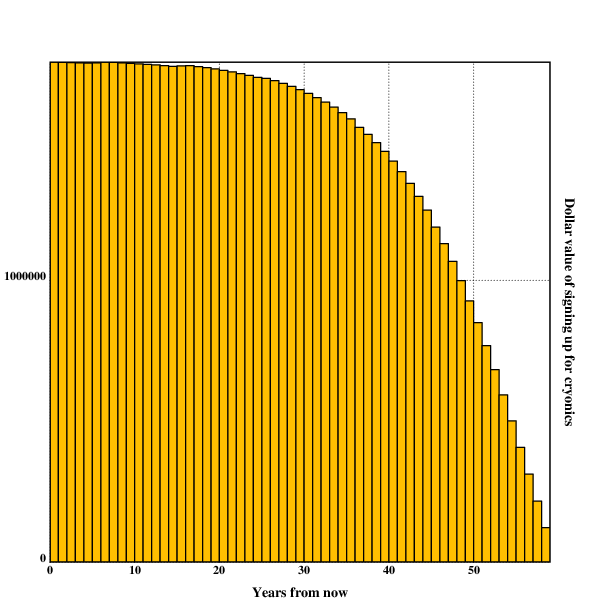
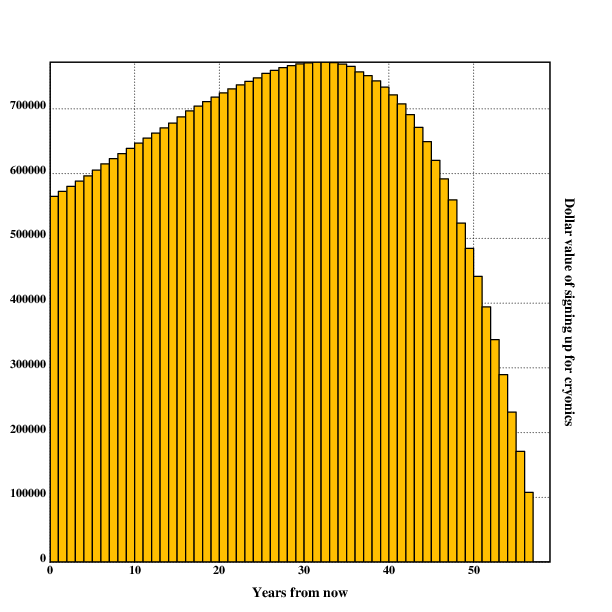
Add.

diff --git a/considerations_on_cryonics.html b/considerations_on_cryonics.html
@@ -41,8 +41,11 @@ worth it, and if yes, should one
 (i.e. postpone signing up for cryonics to a later date)? <a href="https://en.wikipedia.org/wiki/Betteridge's_law_of_headlines">Betteridge's law
 of headlines</a>
 only applies partially here: Yes, it is probably worth it (under plausible
-assumptions \$2.7m for a 20 year old, and more for older people), and no,
-cryocrastination is usually irrational. A cost-benefit analysis written in
+assumptions <a href="#Currently_20_years_old">\$850k for a 20 year old</a>,
+and <a href="#Currently_40_years_old">more for older people</a>), and no,
+cryocrastination is usually irrational (unless one <a href="#Without_Motivation_Drift">doesn't experience
+value drift</a>, in which case cryocrastination
+is rational until age 55). A cost-benefit analysis written in
 <a href="https://en.wikipedia.org/wiki/Lua_(programming_language)">Lua</a>,
 considering
 <a href="https://www.alcor.org/library/neuropreservation-option/">neurocryopreservation</a>
@@ -55,12 +58,6 @@ in the mean, median -\$100k (90% confidence interval: -\$2.16m,
 <a href="#Now_What">immediately</a>.</strong></p>
 </blockquote>
 <h1 id="Cryonics_CostBenefit_Analysis"><a class="hanchor" href="#Cryonics_CostBenefit_Analysis">Cryonics Cost-Benefit Analysis</a></h1>
-<h2 id="Preliminary_Note"><a class="hanchor" href="#Preliminary_Note">Preliminary Note</a></h2>
-<p>I now believe this cost-benefit analysis to be incomplete, mainly because
-it doesn't treat the risk of extinction with as much detail as I would
-like it to. It's still the best one I know of, but proceed with caution.</p>
-<p>I plan on revisiting this analysis.</p>
-<hr/>
 <blockquote>
 <p>If I died, would I be rid of my senses?<br/>
 Or will it retain, trapped within my corpse, in stasis?<br/>
@@ -329,6 +326,7 @@ cryopreservation.</p>
 end
 </code></pre>
 <h3 id="Membership_Fees"><a class="hanchor" href="#Membership_Fees">Membership Fees</a></h3>
+<!--TODO: fees have changed! Update-->
 <p>Membership fees for Alcor are calculated using the age of the member
 and the length of their membership.</p>
 <h4 id="Direct_Fees"><a class="hanchor" href="#Direct_Fees">Direct Fees</a></h4>
@@ -898,6 +896,30 @@ arrives at 2850 years.</p>
 2019</a>
 conservatively estimates a life expectancy of ~1000 years for each
 individual human after LEV.</p>
+<p>The life
+expectancy of cryonics is thus is (just taking the average of these three values)
+<code>$\frac{8938+2850+1000}{3} \approx 4260$</code>.</p>
+<p>To conclude, it seems like resuscitated cryonicists will on average live
+around years, although there is room for debate on this number.</p>
+<pre><code>years_gain=4260
+</code></pre>
+<hr/>
+<p>That number should be qualified further in an <a href="https://en.wikipedia.org/wiki/The_Age_of_Em">"Age of
+Em"</a> scenario: that
+scenario will contain less natural risks (emulation can be backed up,
+they live in a simulated world where homicide risks and car accidents
+make no sense), but an em also suffers from the risk of not having
+enough money to continue being run, and from the fact that the
+em era might not last several subjective millennia. Furthermore,
+it might be that multiple copies of the emulated cryonicist are
+executed. This scenario deserves further consideration (see also
+<a href="http://mason.gmu.edu/~rhanson/uploads.html" title="If Uploads Come First">Hanson 1994</a>).
+I will not take into account the possibility of multiple
+copies of the same person, and assume that only one emulation is being
+run (to avoid tricky problems in aggregation).</p>
+<!--
+DOI: 10.2307/1973599
+-->
 <h4 id="Existential_Risk"><a class="hanchor" href="#Existential_Risk">Existential Risk</a></h4>
 <p>Existential risk affects three different variables in the cost-benefit analysis:</p>
 <ol>
@@ -929,15 +951,16 @@ emerging technology may be inherently unknowable. Still, we can bound
 extinction within a century is virtually certain[…] produces a rate of
 at most <code>$10^{-2}$</code> per year. A lower bound may be <code>$10^{-5}$</code> per year.</p>
 </blockquote>
-<p>This, in turn, depends on the development of the probability of
-existential risk over the next 10k years. Thisk appears to be quite
-tricky: We can take average extinction rates across many species,
-or across species in the <a href="https://en.wikipedia.org/wiki/Homo">homo</a>
-(<code>$\approx 7 \times 10^{-5}$</code> per year <a href="">Sandberg 2023, sec. 8.9</a>,
-<!--TODO: link the Goodreads page--> but that assumes that <em>homo sapiens</em>
-is a typical species or a typical member of the genus homo, which is
-a bold statement about the first species to single-handedly cause a
-<a href="https://en.wikipedia.org/wiki/Holocene_Mass_Extinction">mass extinction</a>.</p>
+<p><em>—Anders Sandberg, “Grand Futures” p. 488-489, 2023</em></p>
+<p>This, in turn, depends on the development of the probability
+of existential risk over the next 10k years. Estimating
+existential risk appears to be quite tricky: We can take average
+extinction rates across many species, or across species in the
+<a href="https://en.wikipedia.org/wiki/Homo">homo</a> (<code>$\approx 7 \times
+10^{-5}$</code> per year), but that assumes that <em>homo sapiens</em> is a
+typical species or a typical member of the genus homo, which is a bold
+statement about the first species to single-handedly cause a <a href="https://en.wikipedia.org/wiki/Holocene_Mass_Extinction">mass
+extinction</a>.</p>
 <p>(Among other things.)</p>
 <p>The probabilities, pathways, causes, risk factors, inhibitors,
 badness, varieties and reference classes for existential risk have been
@@ -947,38 +970,36 @@ so I won't roll up that entire discussion again. Unfortunately, most
 estimates of existential risk concern themselves only with this century,
 and don't make statements about medium term (i.e., the next 10k years)
 probabilities of extinction.</p>
-<p>Taking existential risks into account is a bit harder. It is
-unclear whether most of the probability mass for existential
-risks should be placed before resuscitation of cryonics patients
-becomes feasible, or after it. It is also unclear how high the
-existential risk for humanity is overall. Assuming that the
-existential risk for humanity over the next 10k years is ~40%
-(this number is pretty much a guess, see also the <a href="https://www.metaculus.com/questions/2568/ragnar%25C3%25B6k-seriesresults-so-far/">Ragnarök question
-series</a>),
-and half of that risk is placed before resuscitation, then the life
-expectancy of cryonics is
-<code>$\frac{8938+2850+1000}{3}*(1-0.20) \approx 3410$</code>.</p>
-<hr/>
-<p>That number should be qualified further in an <a href="https://en.wikipedia.org/wiki/The_Age_of_Em">"Age of
-Em"</a> scenario: that
-scenario will contain less natural risks (emulation can be backed up,
-they live in a simulated world where homicide risks and car accidents
-make no sense), but an em also suffers from the risk of not having
-enough money to continue being run, and from the fact that the
-em era might not last several subjective millennia. Furthermore,
-it might be that multiple copies of the emulated cryonicist are
-executed. This scenario deserves further consideration (see also
-<a href="http://mason.gmu.edu/~rhanson/uploads.html" title="If Uploads Come First">Hanson 1994</a>).
-I will not take into account the possibility of multiple
-copies of the same person, and assume that only one emulation is being
-run (to avoid tricky problems in aggregation).</p>
-<p>To conclude, it seems like resuscitated cryonicists will on average live
-around 3410 years, although there is room for debate on this number.</p>
-<pre><code>years_gain=3410
+<p>For the 21st century I'll take the number by <a href="https://en.wikipedia.org/wiki/The_Precipice:_Existential_Risk_and_the_Future_of_Humanity">Ord
+2020</a>:
+~16.5% (equivalent to ~0.25% per year).</p>
+<p>For the time after that, I'll lowball the number at <code>$2 \cdot 10^{-5}$</code>
+per year. I don't have a great good justification for this,
+but I find space colonization fairly plausible, which
+reduces x-risk, and I also find it plausible achieving
+transformative AI could bring humanity <a href="https://musingsandroughdrafts.wordpress.com/2021/03/24/my-current-high-level-strategic-picture-of-the-world/">out of the "time of
+perils"</a>.
+See also the <a href="https://www.metaculus.com/questions/2568/ragnar%25C3%25B6k-seriesresults-so-far/">Ragnarök question
+series</a>.<!--TODO:
+check out and incorporate numbers here?--></p>
+<p>So, we can write a simple function that calculates the total extinction risk before a year:</p>
+<pre><code>perils_end=2100
+risk_before_perils_end=0.165
+annual_risk_before_perils_end=0.0024
+annual_risk_after_perils_end=2*10e-5
+
+function extinction_risk(year)
+        if year&gt;perils_end then
+                -- rescaling, can be at most 1-risk_before_perils_end
+                post_perils_risk=(1-risk_before_perils_end)*(1-math.pow(1-annual_risk_after_perils_end, year-perils_end))
+                return risk_before_perils_end+post_perils_risk
+        elseif year==perils_end then
+                return risk_before_perils_end
+        else
+                return 1-math.pow(1-annual_risk_before_perils_end, year-curyear)
+        end
+end
 </code></pre>
-<!--
-DOI: 10.2307/1973599
--->
 <h3 id="Probability_of_Being_Preserved"><a class="hanchor" href="#Probability_of_Being_Preserved">Probability of Being Preserved</a></h3>
 <p>It seems like not all people who sign up for cryonics remain cryonicists
 until their death, and not all cryonicists who die as members actually
@@ -1242,13 +1263,13 @@ die of old age and not due to accidents during their lifetime.</p>
 <p>The benefit of cryonics is only realized in one case: One lives to the
 planned year of signing up, but then dies before LEV. Both dying before
 signing up or living until LEV after having signed up make the value
-of cryonics \$0. One can calculate the probability of this scenario by
+of cryonics \$0.<sup id="fnref1"><a href="#fn1" rel="footnote">1</a></sup> One can calculate the probability of this scenario by
 multiplying the probabilities of living until signup with the probability
 of then dying before LEV.</p>
 <p>To calculate the probability of living to a given age, we can use
 the gompertz distribution again:</p>
 <pre><code>function prob_liveto(age)
-    return gompertz(age)/gompertz(curage)
+    return gompertz(age)/gompertz(curage)+extinction_risk(curyear+(age-curage))
 end
 </code></pre>
 <p>The probability of dying before LEV is 0 if LEV has already occurred:</p>
@@ -1260,7 +1281,37 @@ and now wants to know the probability of dying until LEV. That is the
 same as <code>$1-\Pr[\hbox{Living until LEV}]$</code>, or the probability of living until
 <code>curage+(levyear-curyear)</code> given one has already lived until <code>age</code>.</p>
 <pre><code>else
-    return 1-(gompertz(curage+(levyear-curyear))/gompertz(age))
+    return 1-(gompertz(curage+(levyear-curyear))/gompertz(age))+extinction_risk(curyear+(age-curage))
+end
+</code></pre>
+<h3 id="Extinction_Risk_After_Revival"><a class="hanchor" href="#Extinction_Risk_After_Revival">Extinction Risk After Revival</a></h3>
+<p>Not only does extinction endanger the cryonicist's revival, it
+also (in expectation) shortens their lifespan <em>after</em> revival. To
+estimate, it is important to know whether the revival happens
+<em>before</em> or <em>after</em> 2100 (the arbitrary cutoff date when the <a href="./ea/are_we_living_at_the_hinge_of_history_macaskill_2020.pdf">hinge of
+history</a>
+is over and humanity has passed the time of perils). The years of revival
+before 2100 are in expectation less valuable than the years after 2100.</p>
+<p>This can be easily expressed by taking the extinction risk during the
+lifespan after revival and subtracting the extinction risk before revival,
+no complicated calculations required.</p>
+<pre><code>post_revival_risk=extinction_risk(revival_year+years_gain)-extiction_risk(revival_year)
+</code></pre>
+<h2 id="Putting_it_All_Together"><a class="hanchor" href="#Putting_it_All_Together">Putting it All Together</a></h2>
+<p>One can then simply calculate the benefit of signing up for cryonics at
+a specific age:</p>
+<pre><code>expected_post_revival_years=prob_pres*prob_succ*(1-post_revival_risk)*years_gain
+return expected_post_revival_years*val_year*prob_liveto(age)*prob_diebeforelev(age)*avg_pres_quality(age)
+</code></pre>
+<p>The cost is easier to calculate, as it has fewer factors:</p>
+<pre><code>function cost(age)
+        return membership_fees(age)+pres_cost(age)+cms_fees(age)
+end
+</code></pre>
+<p>The the value of signing up for cryonics is simply the expected cost
+subtracted from the expected benefit:</p>
+<pre><code>function value(age)
+        return prob_signup(age)*prob_liveto(age)*(benefit(age)-cost(age))
 end
 </code></pre>
 <h2 id="Results"><a class="hanchor" href="#Results">Results</a></h2>
@@ -1271,17 +1322,17 @@ end
 sign up for cryonics right away, mainly because the motivation drift
 punishes the procrastination quite heavily.</p>
 <h4 id="Currently_20_years_old"><a class="hanchor" href="#Currently_20_years_old">Currently 20 years old</a></h4>
-<p>At the age of 20 years, the value of signing up for cryonics the
-same year is \$2718928 (~<code>$\$2.7*10^6$</code>) according to this model,
-prolonging the decision until one is 30 reduces this number to \$1622285
-(~<code>$\$1.6*10^6$</code>), and waiting until 40, 50 and 60 years yields a value
-of \$958279 (~<code>$\$9.5*10^5$</code>), \$546862 (~<code>$\$5.4*10^5$</code>) and \$280704
-(~<code>$\$2.8*10^5$</code>), respectively.</p>
+<p>At the age of 20 years, the value of signing up for cryonics the same year
+is \$848035 (~<code>$\$8.5 \cdot 10^5$</code>) according to this model, prolonging
+the decision until one is 30 reduces this number to \$600000 (~<code>$\$6
+\cdot 10^5$</code>), and waiting until 40, 50 and 60 years yields a value
+of \$399948 (~<code>$\$4 \cdot 10^5$</code>), \$253943 (~<code>$\$2.5 \cdot 10^5$</code>)
+and \$142394 (~<code>$\$1.4 \cdot 10^5$</code>), respectively.</p>
 <pre><code>.l("nplot")
 
 data::.r()
 
-grid([0],(#data),[10];[0],(|/data),[1000000])
+grid([0],(#data),[10];[0],(|/data),[250000])
 
 xtitle("Years from now")
 ytitle("Dollar value of signing up for cryonics")
@@ -1290,14 +1341,14 @@ draw()
 </code></pre>
 <p><img alt="Value of signing up for cryonics in n years at age 20, standard parameters." src="./img/considerations_on_cryonics/std_param_val_20.png" title="Value of signing up for cryonics in n years at age 20, standard parameters. Value diminishes very quickly over the years, having the shape of a decreasing geometric distribution."/></p>
 <h4 id="Currently_40_years_old"><a class="hanchor" href="#Currently_40_years_old">Currently 40 years old</a></h4>
-<p>The values of signing up for cryonics look very similar to the values
-for a 20 year old. Performing the signup immediately at age 40 is worth
-\$6434231 (~<code>$\$6.4*10^6$</code>) at age 40 and is the best time to do it.</p>
+<p>The values of signing up for cryonics are much higher for a 40 year
+old. Performing the signup immediately at age 40 is worth \$3009892
+(~<code>$\$3 \cdot 10^6$</code>) at age 40 and is the best time to do it.</p>
 <pre><code>.l("nplot")
 
 data::.r()
 
-grid([0],(#data),[10];[0],(|/data),[1000000])
+grid([0],(#data),[10];[0],(|/data),[500000])
 
 xtitle("Years from now")
 ytitle("Dollar value of signing up for cryonics")
@@ -1314,39 +1365,41 @@ the <code>decay</code> parameter to 1.</p>
 
 data::.r()
 
-grid([0],(#data),[10];[0],(|/data),[1000000])
+grid([0],(#data),[10];[0],(|/data),[100000])
 
 xtitle("Years from now")
 ytitle("Dollar value of signing up for cryonics")
 barplot(data)
 draw()
 </code></pre>
-<p><img alt="Value of signing up for cryonics in n years at age 20, no motivation drift." src="./img/considerations_on_cryonics/no_drift_val.png" title="Value of signing up for cryonics in n years at age 20, no motivation drift. In the first 30 years, there is very little decline in value, but the the value starts decreasing rapidly."/></p>
-<pre><code>$ lua cryoyear.lua 20 50000 0.05 0.6 4500 1 | sort -n | tail -10
-1770851.3434545: 29
-1771271.4463869: 24
-1772258.6631463: 23
-1772455.258346: 28
-1772578.3116184: 25
-1773160.8544677: 22
-1773986.7306506: 21
-1774219.6984224: 27
-1774744.1202585: 20
-1775550.165284: 26
+<p><img alt="Value of signing up for cryonics in n years at age 20, no motivation drift." src="./img/considerations_on_cryonics/no_drift_val.png" title="Value of signing up for cryonics in n years at age 20, no motivation drift. In the first 30 years, the value continues to increase, until at ~30 (or age 50) the value starts decreasing rapidly."/></p>
+<pre><code>$ lua cryoyear.lua 20 50000 0.05 0.6 4500 1 | sort -nr | head -10
+772358.83294268: 52
+772249.89402817: 51
+771393.75439825: 53
+771173.79853806: 50
+769614.18541915: 49
+769238.25552628: 54
+766954.57748956: 48
+765765.98870041: 55
+763596.0050379: 47
+759612.28026664: 46
 </code></pre>
-<p>It is now optimal to wait for 6 years, with an added value of
+<p>It is now optimal to wait for 30 years, with an added value of
 ~\$800. This is probably due to very slight variations in the quality
 of cryopreservation at different ages of death.</p>
 <p>So in the case of high self-trust, it seems possible that limited amounts
 of cryocrastination might indeed be rational, although the benefits
 are so small that they might be swamped by even slight changes to the
 factors for the quality of cryopreservation.</p>
-<p>And, in case anybody was wondering, at age 26 the model recommends
-signing up immediately:</p>
+<p>And, in case anybody was wondering, at age 26 the model also recommends
+deferring to age 52:</p>
 <pre><code>$ lua cryoyear.lua 26 50000 0.05 0.6 4500 1 | sort -n | tail -1
-2076784.4016749: 26
+1202556.0910284: 52
 </code></pre>
-<p>For ages 20-25, it recommends waiting until the age of 26.</p>
+<p>For ages 20-25, it recommends waiting until the age of 52, and if you're
+older, it usually recommends to sign up at 54 (at ages above 54 it tells
+you to sign up immediately).</p>
 <h3 id="The_Critics_Scenario"><a class="hanchor" href="#The_Critics_Scenario">The Critic's Scenario</a></h3>
 <p>Somebody who is very critical might object and argue that the probability
 of success is much lower, and even if cryonics succeeds, it will not
@@ -1362,16 +1415,16 @@ decay=1
 <p>In this case, signing up for cryonics has negative value that converges
 to 0 the older one gets:</p>
 <pre><code>$ lua cryoyear.lua 20 50000 0.01 0.6 50 1 | sort -n | tail -10
--81533.552305999: 69
--79644.977781056: 70
--78060.880368866: 71
--75915.347114195: 72
--73635.266812914: 73
--71605.456094135: 74
--69025.930083615: 75
--66295.81565389: 76
--63762.191486437: 77
--60711.195331299: 78
+-92300.725472993: 69
+-90585.101387741: 70
+-89238.764428451: 71
+-87276.353042895: 72
+-85184.716132512: 73
+-83413.058081414: 74
+-81035.187052355: 75
+-78513.415141421: 76
+-76779.408558686: 77
+-73647.055526417: 78
 </code></pre>
 <p>Please note that the following graph should have negative values on the
 y-axis. This should get fixed sometime in the future.</p>
@@ -1394,7 +1447,7 @@ draw()
 $ lua cryoyear.lua 22 50000 0.1 0.6 100 1 180 100000 2080
 -->
 <!--
-Higher monetary for life-years make the case stronger
+Higher monetary value for life-years make the case stronger
 -->
 <!--
 Near Singularity Scenarios
@@ -1579,4 +1632,12 @@ A perhaps similar article by Anders Sandberg?
 <li><a href="https://old.reddit.com/r/slatestarcodex/comments/hde7h5/considerations_on_cryonics_a/">/r/slatestarcodex</a></li>
 <li><a href="https://www.lesswrong.com/posts/xwJa3ieBBQYFtCmHt/considerations-on-cryonics">LessWrong</a></li>
 </ul>
+<div class="footnotes">
+<hr/>
+<ol>
+<li id="fn1">
+<p>Well, this isn't <em>quite</em> correct. One can imagine a world in which LEV is achieved for normal aging processes, <em>but</em> dying of very bad injuries is still a possibility. In that case, dying from those injuries is possible, but future revival from those injuries could still happen. I won't incorporate that possibility into the model, because that would make it pretty messy. <a href="#fnref1" rev="footnote">↩</a></p>
+</li>
+</ol>
+</div>
 </body></html>

diff --git a/changelog.html b/changelog.html
@@ -51,6 +51,7 @@ with fecundity.</p>
 <p>Monthly updates are sent out <a href="https://niplav.substack.com/">via substack</a>.</p>
 <h2 id="January_2024"><a class="hanchor" href="#January_2024">January 2024</a></h2>
 <ul>
+<li>After incorporating existential risk more carefully into my <a href="./considerations_on_cryonics.html">cryonics cost-benefit analysis</a>, the expected value is now only $850k for a 20 year old, and cryocrastination (until age 55) is rational under complete self-trust.</li>
 <li><a href="./forecasters.html#Forecasting_Techniques">Question Decomposition in Forecasting</a>: <a href="./forecasters.html#Improvements">Improvement of MECE Decomposition</a> and an idea to <a href="./forecasters.html#Using_LLMs">use LLMs</a> to test whether decomposition works.</li>
 <li>Preliminary notes on <a href="./increasing.html">Increasing Subjective Lifespan</a>, at the moment mapping the territory and reading abstracts.</li>
 <li><a href="./microfiction.html">Microfiction</a>
@@ -61,7 +62,7 @@ with fecundity.</p>
 <ul>
 <li><a href="./platforms.html#Table_of_Current_Market_Status">Table of Current Market Status</a>. Currently nicotine→meditation &amp; lumenator→happiness seem the most promising. Going to select the markets end of January.</li>
 </ul></li>
-<li>Quantifying the <a href="./nootropics.html#Reducing_Sleep_Duration">Reduction Melatonin has on my Sleep Duration</a></li>
+<li>Quantifying the <a href="./nootropics.html#Reducing_Sleep_Duration">Reduction Melatonin has on my Sleep Duration</a>. It shaves off ~25 minutes.</li>
 </ul>
 <h3 id="Links"><a class="hanchor" href="#Links">Links</a></h3>
 <ul>
